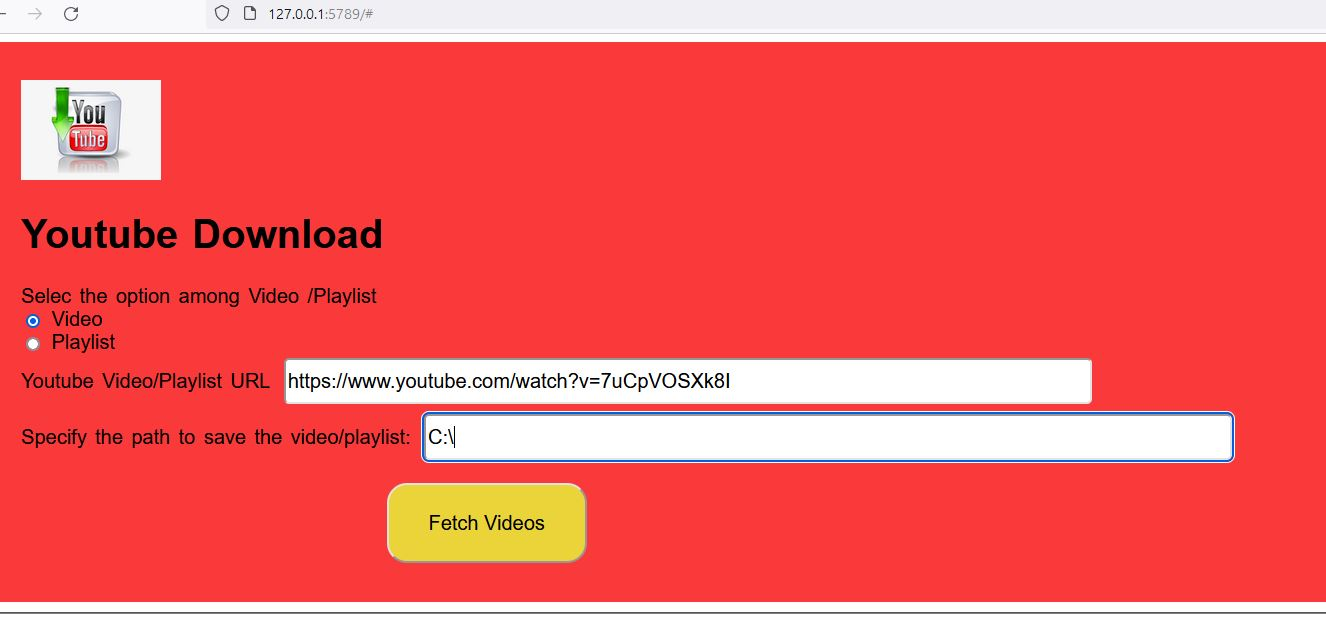
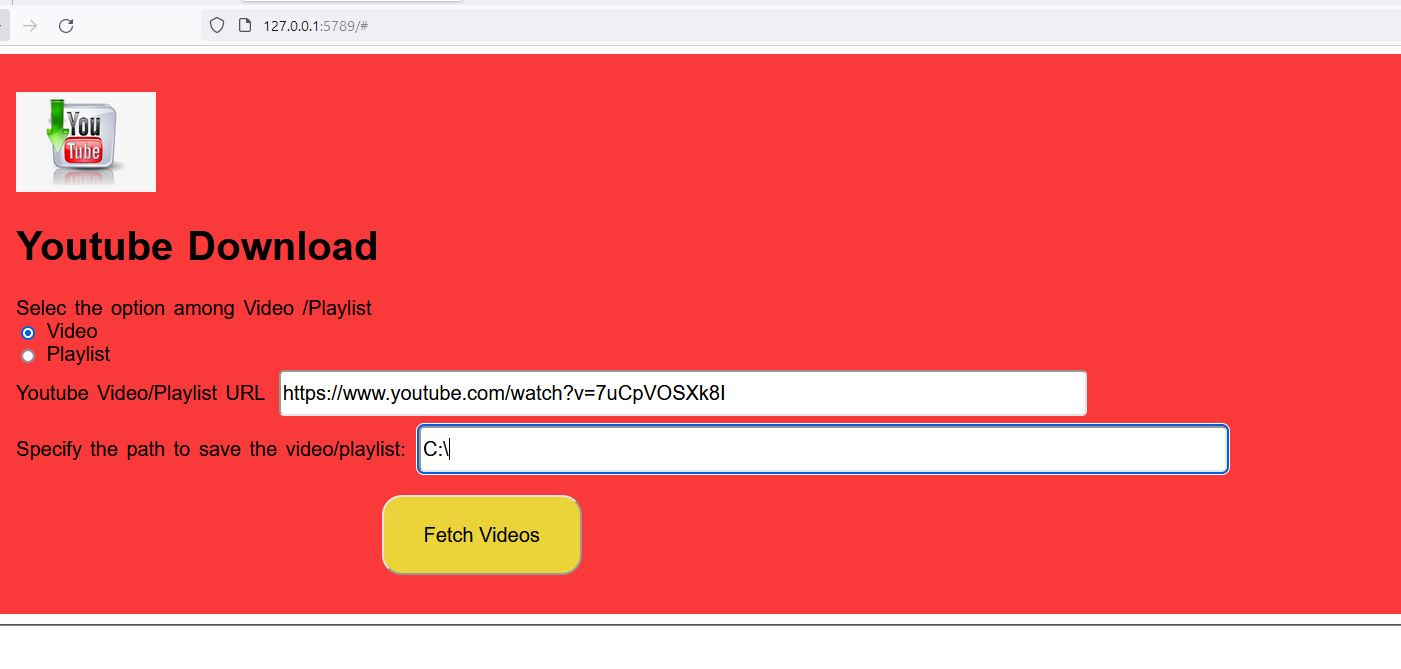
Updating README.md

diff --git a/README.md b/README.md
@@ -25,34 +25,40 @@ options:
   -web, --web_console  download videos using Web Console
 ```
 
-To download single video:
+##### To download single video:
 ```
 youtube_download video -url "https://www.youtube.com/watch?v=7uCpVOSXk8I" -save "C:\Users\im530\Downloads\dtdt"
 ```
 
-To download entire playlist:
+##### To download entire playlist:
 ```
 youtube_download playlist -url "https://www.youtube.com/playlist?list=PLW489siXAtnoA_fOdIzMHU8gAZHHfp-T5" -save "C:\Users\im530\Downloads\dtdt" -num 2
 ```
  - num : How many videos to be downloaded parallelly.
 
-To load the web page:
+## To load the web page:
 ```
 youtube_download -web
 ```
-## Input
-![alt text](./youtube.jpg)
 
-## Response
-![alt text](./youtube.jpg)
+#### url to visit
+```
+http://127.0.0.1:5789/
+```
+
+#### Input
+![alt text](./web1.JPG)
+
+#### Response
+![alt text](./web2.JPG)
 
 
-To load the GUI:
+## To load the GUI:
 ```
 youtube_download -gui
 ```
-## Input
-![alt text](./youtube.jpg)
+#### Input
+![alt text](./gui1.JPG)
 
-## Response
-![alt text](./youtube.jpg)
+#### Response
+![alt text](./gui2.JPG)
